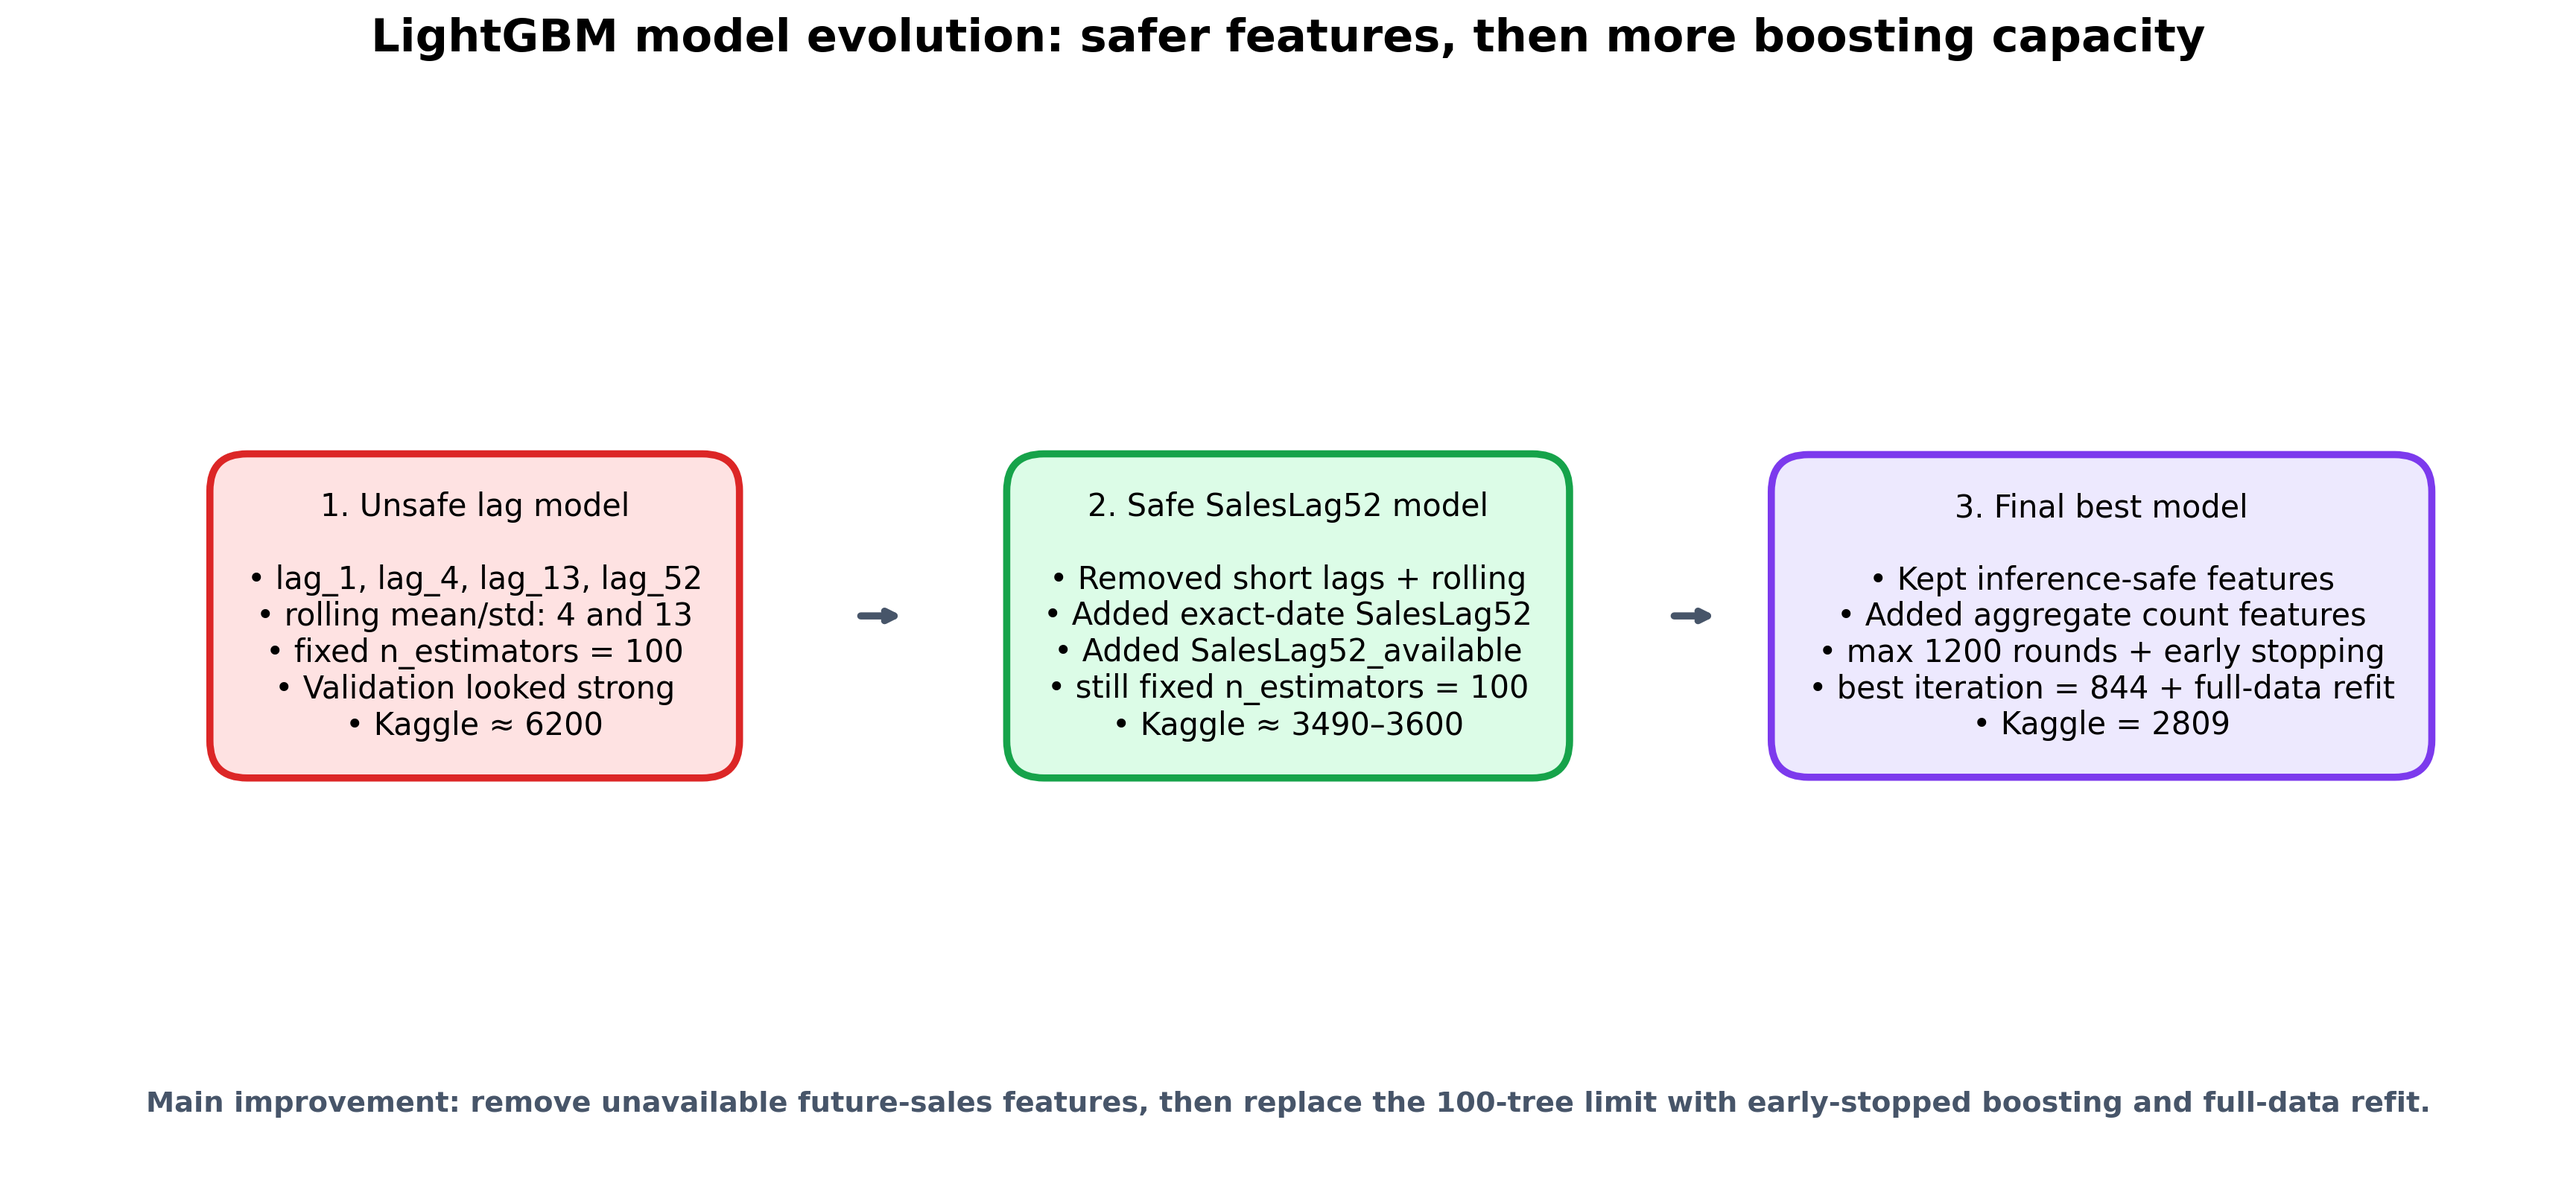
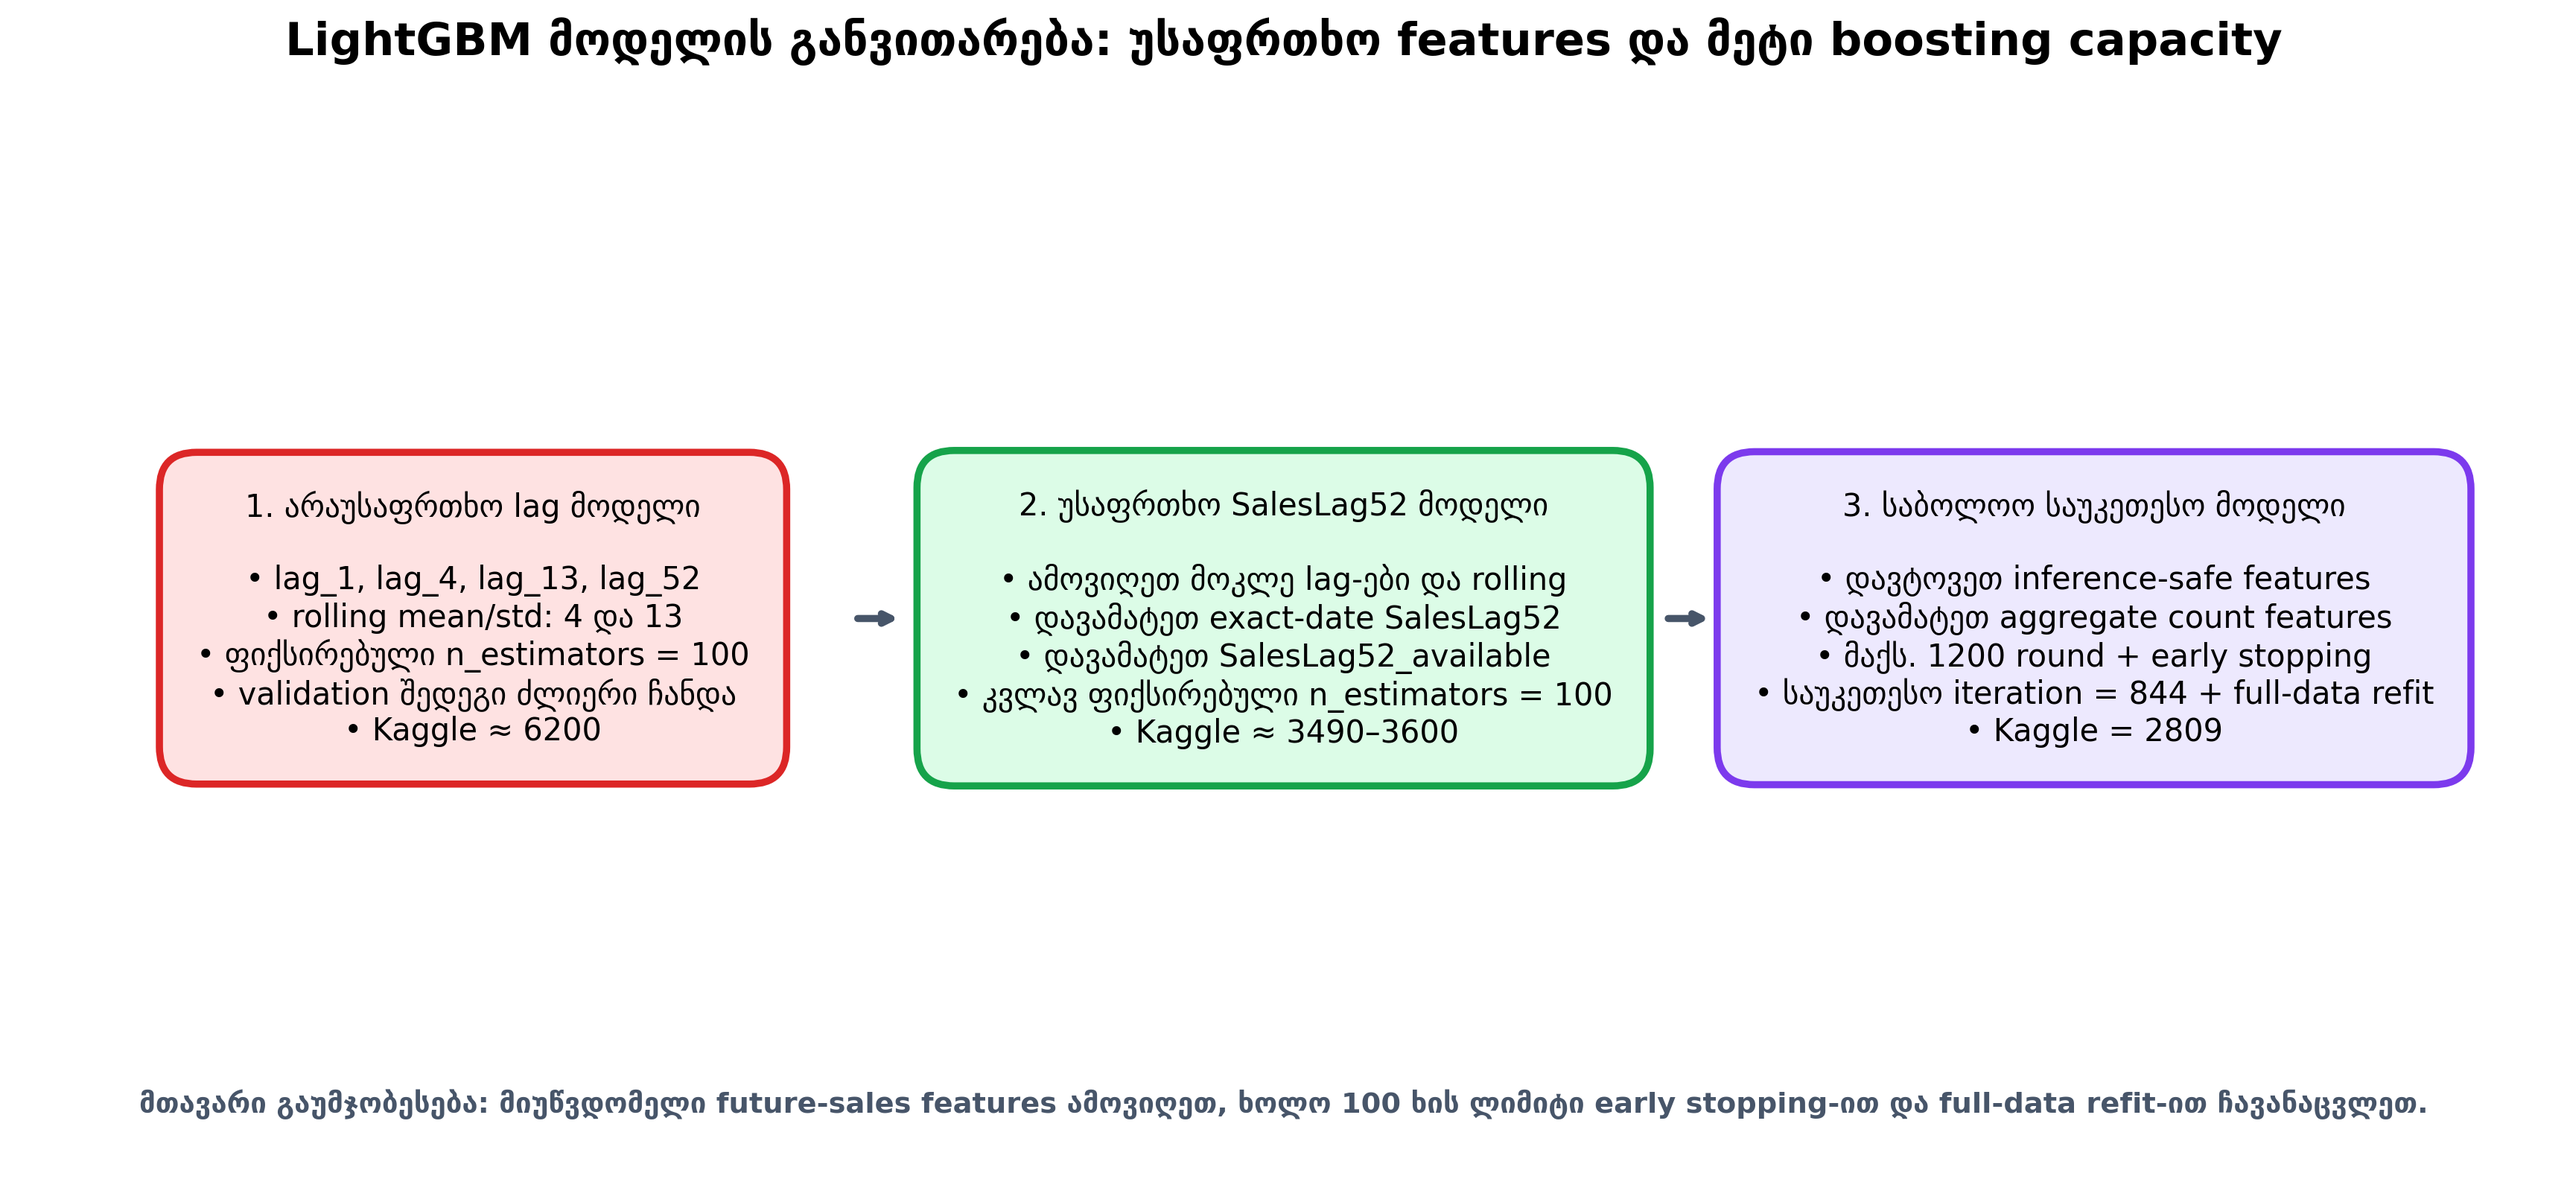
images added ligtgbm

diff --git a/models/tree_based/lightgbm/generate_model_experiment_figures.py b/models/tree_based/lightgbm/generate_model_experiment_figures.py
@@ -80,25 +80,25 @@ def experiment_evolution():
 def lag_transition():
     fig, ax = plt.subplots(figsize=(16, 7)); ax.axis("off")
     stages = [
-        ("1. Unsafe lag model", [
+        ("1. არაუსაფრთხო lag მოდელი", [
             "lag_1, lag_4, lag_13, lag_52",
-            "rolling mean/std: 4 and 13",
-            "fixed n_estimators = 100",
-            "Validation looked strong",
+            "rolling mean/std: 4 და 13",
+            "ფიქსირებული n_estimators = 100",
+            "validation შედეგი ძლიერი ჩანდა",
             "Kaggle ≈ 6200",
         ], "#FEE2E2", RED),
-        ("2. Safe SalesLag52 model", [
-            "Removed short lags + rolling",
-            "Added exact-date SalesLag52",
-            "Added SalesLag52_available",
-            "still fixed n_estimators = 100",
+        ("2. უსაფრთხო SalesLag52 მოდელი", [
+            "ამოვიღეთ მოკლე lag-ები და rolling",
+            "დავამატეთ exact-date SalesLag52",
+            "დავამატეთ SalesLag52_available",
+            "კვლავ ფიქსირებული n_estimators = 100",
             "Kaggle ≈ 3490–3600",
         ], "#DCFCE7", GREEN),
-        ("3. Final best model", [
-            "Kept inference-safe features",
-            "Added aggregate count features",
-            "max 1200 rounds + early stopping",
-            "best iteration = 844 + full-data refit",
+        ("3. საბოლოო საუკეთესო მოდელი", [
+            "დავტოვეთ inference-safe features",
+            "დავამატეთ aggregate count features",
+            "მაქს. 1200 round + early stopping",
+            "საუკეთესო iteration = 844 + full-data refit",
             "Kaggle = 2809",
         ], "#EDE9FE", PURPLE),
     ]
@@ -110,8 +110,8 @@ def lag_transition():
         if i < 2:
             ax.annotate("", xy=(xs[i+1]-.15,.52), xytext=(x+.15,.52), xycoords=ax.transAxes,
                         arrowprops=dict(arrowstyle="->", lw=3, color=SLATE))
-    ax.set_title("LightGBM model evolution: safer features, then more boosting capacity", fontsize=19, weight="bold", pad=25)
-    ax.text(.5,.05,"Main improvement: remove unavailable future-sales features, then replace the 100-tree limit with early-stopped boosting and full-data refit.",transform=ax.transAxes,ha="center",color=SLATE,weight="bold",fontsize=12)
+    ax.set_title("LightGBM მოდელის განვითარება: უსაფრთხო features და მეტი boosting capacity", fontsize=19, weight="bold", pad=25)
+    ax.text(.5,.05,"მთავარი გაუმჯობესება: მიუწვდომელი future-sales features ამოვიღეთ, ხოლო 100 ხის ლიმიტი early stopping-ით და full-data refit-ით ჩავანაცვლეთ.",transform=ax.transAxes,ha="center",color=SLATE,weight="bold",fontsize=12)
     save(fig, "04_three_stage_model_evolution.png")
 
 
